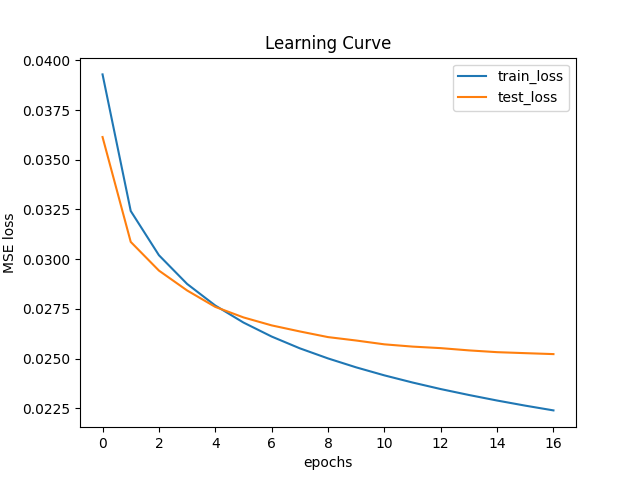
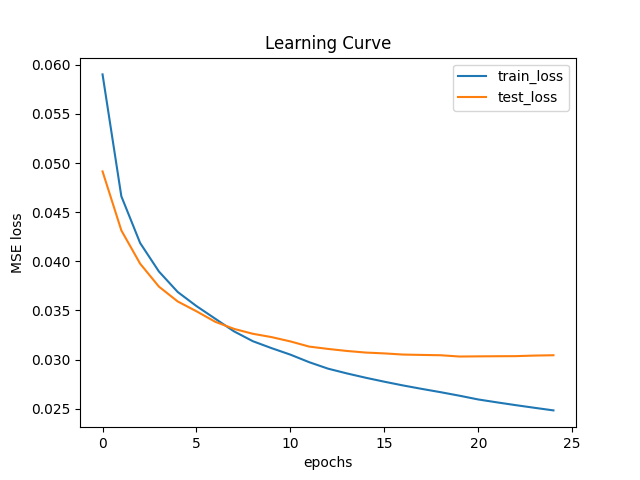
Fully connected net. Worse result

diff --git a/dvc_plots/index.html b/dvc_plots/index.html
@@ -22,120 +22,176 @@
         "filename": "reports/learning_curve.csv",
         "rev": "workspace",
         "step": 0,
-        "test_loss": "0.036143168807029724",
-        "train_loss": "0.03929422103395366"
+        "test_loss": "0.049147654324769974",
+        "train_loss": "0.05902096669556517"
     },
     {
         "filename": "reports/learning_curve.csv",
         "rev": "workspace",
         "step": 1,
-        "test_loss": "0.03086892142891884",
-        "train_loss": "0.03242365599167769"
+        "test_loss": "0.043144479393959045",
+        "train_loss": "0.0466199039141036"
     },
     {
         "filename": "reports/learning_curve.csv",
         "rev": "workspace",
         "step": 2,
-        "test_loss": "0.029425764456391335",
-        "train_loss": "0.03019938304945074"
+        "test_loss": "0.03975611925125122",
+        "train_loss": "0.041862472792842775"
     },
     {
         "filename": "reports/learning_curve.csv",
         "rev": "workspace",
         "step": 3,
-        "test_loss": "0.02842632122337818",
-        "train_loss": "0.028754762403215423"
+        "test_loss": "0.0374210923910141",
+        "train_loss": "0.0389605056885818"
     },
     {
         "filename": "reports/learning_curve.csv",
         "rev": "workspace",
         "step": 4,
-        "test_loss": "0.027599046006798744",
-        "train_loss": "0.02766815559618702"
+        "test_loss": "0.035911545157432556",
+        "train_loss": "0.03687470674514771"
     },
     {
         "filename": "reports/learning_curve.csv",
         "rev": "workspace",
         "step": 5,
-        "test_loss": "0.02707035094499588",
-        "train_loss": "0.02681204849082713"
+        "test_loss": "0.03490925580263138",
+        "train_loss": "0.03543780400370709"
     },
     {
         "filename": "reports/learning_curve.csv",
         "rev": "workspace",
         "step": 6,
-        "test_loss": "0.026668936014175415",
-        "train_loss": "0.026107606130341687"
+        "test_loss": "0.033839378505945206",
+        "train_loss": "0.03415115457103409"
     },
     {
         "filename": "reports/learning_curve.csv",
         "rev": "workspace",
         "step": 7,
-        "test_loss": "0.026364194229245186",
-        "train_loss": "0.025514638129659373"
+        "test_loss": "0.033118173480033875",
+        "train_loss": "0.03286346006536424"
     },
     {
         "filename": "reports/learning_curve.csv",
         "rev": "workspace",
         "step": 8,
-        "test_loss": "0.02607984095811844",
-        "train_loss": "0.025006979627892223"
+        "test_loss": "0.0326208621263504",
+        "train_loss": "0.0318651575008125"
     },
     {
         "filename": "reports/learning_curve.csv",
         "rev": "workspace",
         "step": 9,
-        "test_loss": "0.02590773068368435",
-        "train_loss": "0.024557271409365866"
+        "test_loss": "0.032280515879392624",
+        "train_loss": "0.031155740422657643"
     },
     {
         "filename": "reports/learning_curve.csv",
         "rev": "workspace",
         "step": 10,
-        "test_loss": "0.025715433061122894",
-        "train_loss": "0.024154775294691625"
+        "test_loss": "0.031841713935136795",
+        "train_loss": "0.030496469077588333"
     },
     {
         "filename": "reports/learning_curve.csv",
         "rev": "workspace",
         "step": 11,
-        "test_loss": "0.025601491332054138",
-        "train_loss": "0.023794865161180498"
+        "test_loss": "0.031316883862018585",
+        "train_loss": "0.02972854624229549"
     },
     {
         "filename": "reports/learning_curve.csv",
         "rev": "workspace",
         "step": 12,
-        "test_loss": "0.025524592027068138",
-        "train_loss": "0.02346539097715809"
+        "test_loss": "0.031079662963747978",
+        "train_loss": "0.02907141518939023"
     },
     {
         "filename": "reports/learning_curve.csv",
         "rev": "workspace",
         "step": 13,
-        "test_loss": "0.025411229580640793",
-        "train_loss": "0.023167427914085412"
+        "test_loss": "0.03087294101715088",
+        "train_loss": "0.028589373270068507"
     },
     {
         "filename": "reports/learning_curve.csv",
         "rev": "workspace",
         "step": 14,
-        "test_loss": "0.025321397930383682",
-        "train_loss": "0.02288897749751505"
+        "test_loss": "0.030710043385624886",
+        "train_loss": "0.028148552560144"
     },
     {
         "filename": "reports/learning_curve.csv",
         "rev": "workspace",
         "step": 15,
-        "test_loss": "0.025272011756896973",
-        "train_loss": "0.022631471712857183"
+        "test_loss": "0.030623169615864754",
+        "train_loss": "0.02774198627983681"
     },
     {
         "filename": "reports/learning_curve.csv",
         "rev": "workspace",
         "step": 16,
-        "test_loss": "0.02522420696914196",
-        "train_loss": "0.022392296936137205"
+        "test_loss": "0.03050507791340351",
+        "train_loss": "0.02735937842290209"
+    },
+    {
+        "filename": "reports/learning_curve.csv",
+        "rev": "workspace",
+        "step": 17,
+        "test_loss": "0.03046787716448307",
+        "train_loss": "0.027008510719646106"
+    },
+    {
+        "filename": "reports/learning_curve.csv",
+        "rev": "workspace",
+        "step": 18,
+        "test_loss": "0.030434992164373398",
+        "train_loss": "0.026673266573084727"
+    },
+    {
+        "filename": "reports/learning_curve.csv",
+        "rev": "workspace",
+        "step": 19,
+        "test_loss": "0.030305221676826477",
+        "train_loss": "0.026316743857330745"
+    },
+    {
+        "filename": "reports/learning_curve.csv",
+        "rev": "workspace",
+        "step": 20,
+        "test_loss": "0.03032255731523037",
+        "train_loss": "0.025933347934424276"
+    },
+    {
+        "filename": "reports/learning_curve.csv",
+        "rev": "workspace",
+        "step": 21,
+        "test_loss": "0.030335796996951103",
+        "train_loss": "0.025638282190669666"
+    },
+    {
+        "filename": "reports/learning_curve.csv",
+        "rev": "workspace",
+        "step": 22,
+        "test_loss": "0.030345365405082703",
+        "train_loss": "0.02535416071877034"
+    },
+    {
+        "filename": "reports/learning_curve.csv",
+        "rev": "workspace",
+        "step": 23,
+        "test_loss": "0.030403124168515205",
+        "train_loss": "0.025084577377772692"
+    },
+    {
+        "filename": "reports/learning_curve.csv",
+        "rev": "workspace",
+        "step": 24,
+        "test_loss": "0.030436040833592415",
+        "train_loss": "0.024821987910327886"
     },
     {
         "filename": "reports/learning_curve.csv",

diff --git a/dvc_evaluate_model.py b/dvc_evaluate_model.py
@@ -80,7 +80,7 @@ print(summary(
 print('\n```', file=report)
 
 writer = SummaryWriter('logsdir')
-writer.add_graph(model, next(iter(test_dataloader))[0])
+# writer.add_graph(model, next(iter(test_dataloader))[0])
 writer.close()
 # %%
 curve = pd.read_csv(jn(out_path, 'learning_curve.csv'))

diff --git a/reports/report.md b/reports/report.md
@@ -1,50 +1,32 @@
-# Report about training model **TorchSensorNN5S_norm_deep**
+# Report about training model **TorchSensorNN**
 ## Architecture summary
 ```
 
 ============================================================================================================================================
 Layer (type:depth-idx)                   Input Shape               Output Shape              Param #                   Kernel Shape
 ============================================================================================================================================
-TorchSensorNN5S_norm_deep                [1000, 4, 64]             [1000, 64, 64]            --                        --
-├─Sequential: 1-1                        [1000, 1, 64, 4]          [1000, 8, 64, 4]          --                        --
-│    └─Conv2d: 2-1                       [1000, 1, 64, 4]          [1000, 8, 64, 4]          32                        [3, 1]
-│    └─ReLU: 2-2                         [1000, 8, 64, 4]          [1000, 8, 64, 4]          --                        --
-├─Sequential: 1-2                        [1000, 8, 64, 4]          [1000, 64, 16, 4]         --                        --
-│    └─MaxPool2d: 2-3                    [1000, 8, 64, 4]          [1000, 8, 32, 4]          --                        [2, 1]
-│    └─InstanceNorm2d: 2-4               [1000, 8, 32, 4]          [1000, 8, 32, 4]          16                        --
-│    └─Conv2d: 2-5                       [1000, 8, 32, 4]          [1000, 64, 32, 4]         1,600                     [3, 1]
-│    └─ReLU: 2-6                         [1000, 64, 32, 4]         [1000, 64, 32, 4]         --                        --
-│    └─MaxPool2d: 2-7                    [1000, 64, 32, 4]         [1000, 64, 16, 4]         --                        [2, 1]
-│    └─InstanceNorm2d: 2-8               [1000, 64, 16, 4]         [1000, 64, 16, 4]         128                       --
-├─MaxPool2d: 1-3                         [1000, 8, 64, 4]          [1000, 8, 16, 4]          --                        [4, 1]
-├─Sequential: 1-4                        [1000, 64, 16, 4]         [1000, 128, 4, 4]         --                        --
-│    └─Conv2d: 2-9                       [1000, 64, 16, 4]         [1000, 128, 16, 4]        24,704                    [3, 1]
-│    └─ReLU: 2-10                        [1000, 128, 16, 4]        [1000, 128, 16, 4]        --                        --
-│    └─MaxPool2d: 2-11                   [1000, 128, 16, 4]        [1000, 128, 8, 4]         --                        [2, 1]
-│    └─InstanceNorm2d: 2-12              [1000, 128, 8, 4]         [1000, 128, 8, 4]         256                       --
-│    └─Conv2d: 2-13                      [1000, 128, 8, 4]         [1000, 128, 8, 4]         49,280                    [3, 1]
-│    └─MaxPool2d: 2-14                   [1000, 128, 8, 4]         [1000, 128, 4, 4]         --                        [2, 1]
-├─MaxPool2d: 1-5                         [1000, 64, 16, 4]         [1000, 64, 4, 4]          --                        [4, 1]
-├─Sequential: 1-6                        [1000, 128, 4, 4]         [1000, 64, 4, 1]          --                        --
-│    └─Conv2d: 2-15                      [1000, 128, 4, 4]         [1000, 64, 4, 1]          32,832                    [1, 4]
-│    └─ReLU: 2-16                        [1000, 64, 4, 1]          [1000, 64, 4, 1]          --                        --
-├─Sequential: 1-7                        [1000, 256]               [1000, 4096]              --                        --
-│    └─Linear: 2-17                      [1000, 256]               [1000, 195]               50,115                    --
-│    └─ReLU: 2-18                        [1000, 195]               [1000, 195]               --                        --
-│    └─Linear: 2-19                      [1000, 195]               [1000, 900]               176,400                   --
-│    └─ReLU: 2-20                        [1000, 900]               [1000, 900]               --                        --
-│    └─Linear: 2-21                      [1000, 900]               [1000, 4096]              3,690,496                 --
-│    └─LeakyReLU: 2-22                   [1000, 4096]              [1000, 4096]              --                        --
+TorchSensorNN                            [1000, 4, 64]             [1000, 64, 64]            --                        --
+├─Sequential: 1-1                        [1000, 4, 64]             [1000, 64, 64]            --                        --
+│    └─Flatten: 2-1                      [1000, 4, 64]             [1000, 256]               --                        --
+│    └─Linear: 2-2                       [1000, 256]               [1000, 600]               154,200                   --
+│    └─ReLU: 2-3                         [1000, 600]               [1000, 600]               --                        --
+│    └─Linear: 2-4                       [1000, 600]               [1000, 600]               360,600                   --
+│    └─ReLU: 2-5                         [1000, 600]               [1000, 600]               --                        --
+│    └─Linear: 2-6                       [1000, 600]               [1000, 600]               360,600                   --
+│    └─ReLU: 2-7                         [1000, 600]               [1000, 600]               --                        --
+│    └─Linear: 2-8                       [1000, 600]               [1000, 4096]              2,461,696                 --
+│    └─ReLU: 2-9                         [1000, 4096]              [1000, 4096]              --                        --
+│    └─Unflatten: 2-10                   [1000, 4096]              [1000, 64, 64]            --                        --
 ============================================================================================================================================
-Total params: 4,025,859
-Trainable params: 4,025,859
+Total params: 3,337,096
+Trainable params: 3,337,096
 Non-trainable params: 0
-Total mult-adds (G): 7.42
+Total mult-adds (G): 3.34
 ============================================================================================================================================
 Input size (MB): 1.02
-Forward/backward pass size (MB): 297.53
-Params size (MB): 16.10
-Estimated Total Size (MB): 314.66
+Forward/backward pass size (MB): 47.17
+Params size (MB): 13.35
+Estimated Total Size (MB): 61.54
 ============================================================================================================================================
 
 ```
